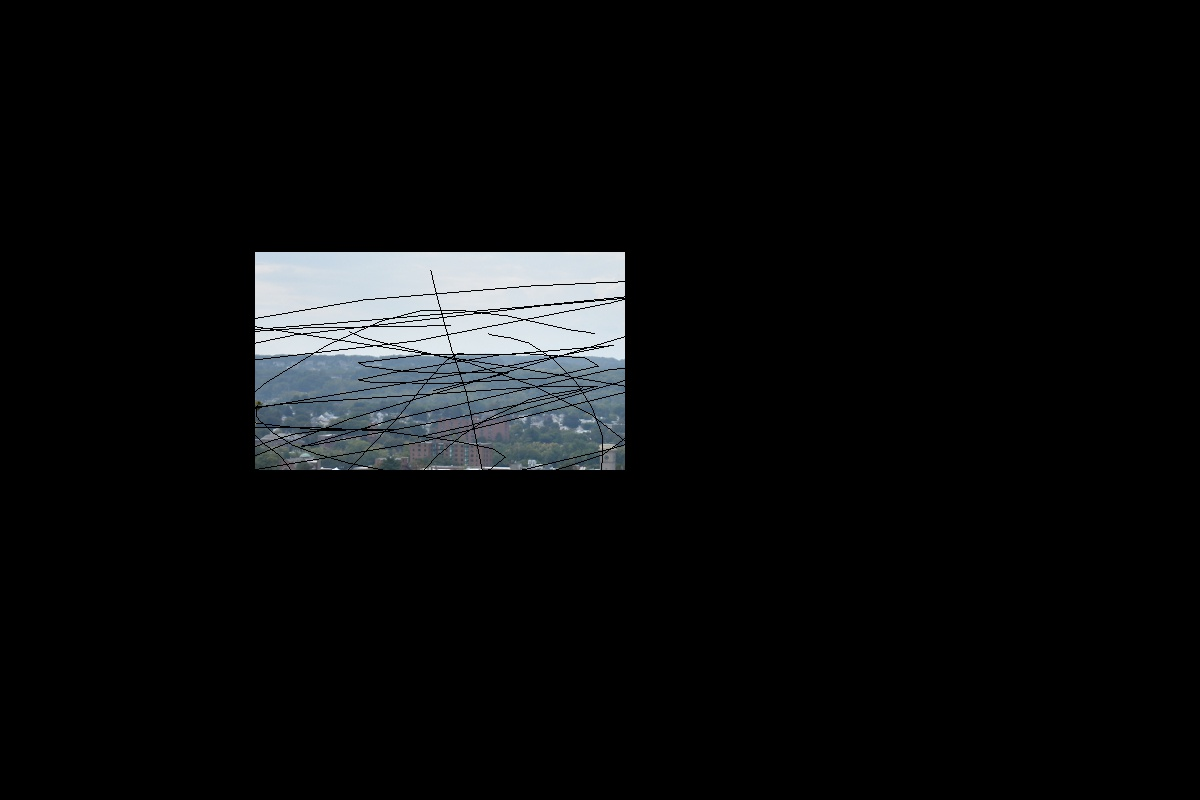
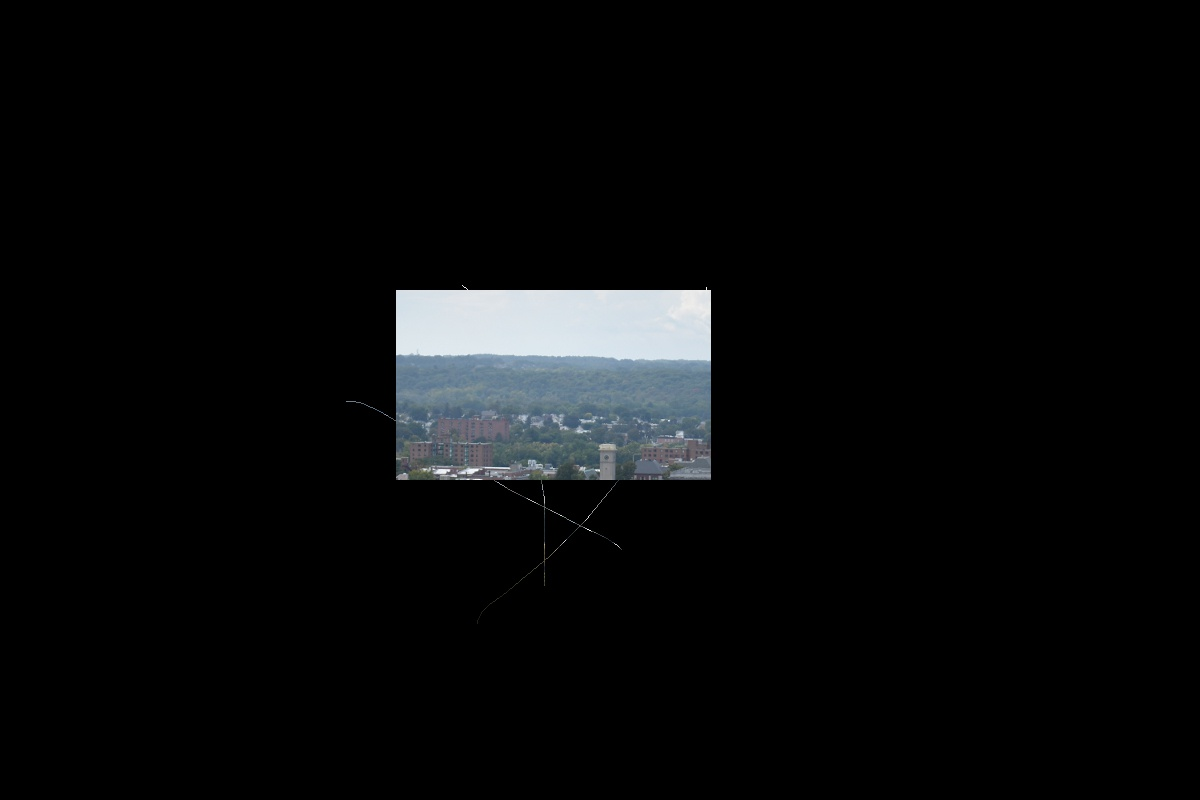
Pressing `S` changes mode

Changed region(s): [[0.185, 0.3125, 0.6167, 0.625]]

diff --git a/hw2/problem2.py b/hw2/problem2.py
@@ -4,6 +4,9 @@ import numpy as np
 import maxflow
 
 # app imports
+from kivy.config import Config
+Config.set('input', 'mouse', 'mouse,disable_multitouch')
+
 from kivy.app import App
 from kivy.uix.widget import Widget
 from kivy.core.window import Window
@@ -100,8 +103,15 @@ class SegmentationWidget(Widget):
     def __init__(self, *args, **kwargs):
         #init the firsttouch and call the super
         super(SegmentationWidget, self).__init__(*args, **kwargs)
+
         self.firstTouch = True
+        self.isKeep = True
+
         self.bind(size=self._update_rect, pos=self._update_rect)
+
+        #keyboard stuff
+        self._keyboard = Window.request_keyboard(self._keyboard_closed, self)
+        self._keyboard.bind(on_key_down=self._on_keyboard_down)
 
         imgName = sys.argv[1]
         img = cv2.imread(imgName).astype(np.uint8)
@@ -193,7 +203,11 @@ class SegmentationWidget(Widget):
 
                 buffer = createLineIterator(np.array([x1,y1]).astype(np.int),np.array([x2,y2]).astype(np.int),self.imgOut)
                 for data in buffer:
-                    self.mask[data[1]][data[0]] = 1.
+
+                    if self.isKeep:
+                        self.mask[data[1]][data[0]] = 0.
+                    else:
+                        self.mask[data[1]][data[0]] = 1.
 
         #remove the lines and update the graph based on this line
         self.canvas.clear()
@@ -207,6 +221,15 @@ class SegmentationWidget(Widget):
         cv2.imwrite('out2.jpg', self.imgOut)
         self.imgOut = np.flip(self.imgOut,axis=0)
 
+    def _on_keyboard_down(self, keyboard, keycode, text, modifiers):
+        if keycode[1] == 's':
+            self.isKeep = not self.isKeep
+
+        return True
+
+    def _keyboard_closed(self):
+        self._keyboard.unbind(on_key_down=self._on_keyboard_down)
+        self._keyboard = None
 
     def xResize(self,x):
         return x / self.size[0] * self.imgWidth
